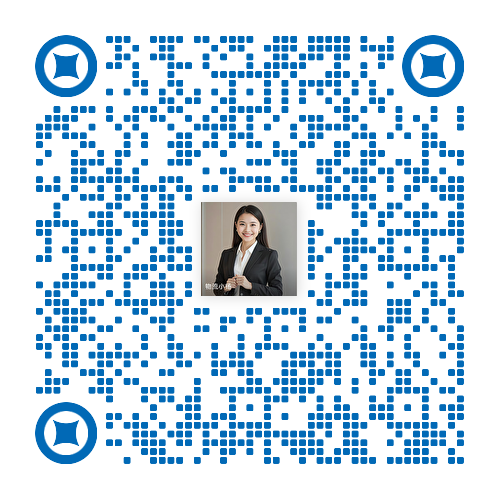
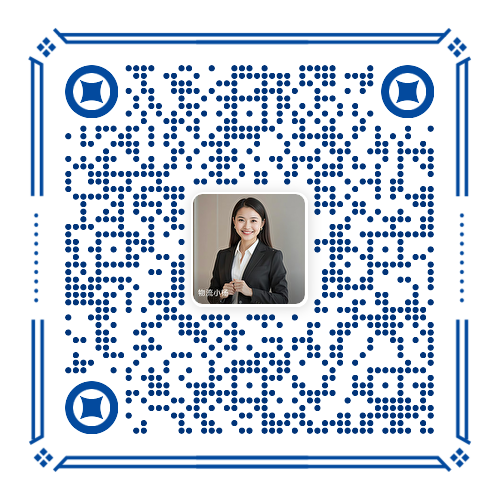
modify qr code

diff --git a/uniapp-cal-price/src/components/WechatFab.vue b/uniapp-cal-price/src/components/WechatFab.vue
@@ -32,7 +32,7 @@ export default {
     },
 
     openCorpWx() {
-      const link = 'https://work.weixin.qq.com/ca/cawcdeae7f79de5a3d'
+      const link = 'https://work.weixin.qq.com/ca/cawcde96436f7eeacb'
 
       /* #ifdef APP-PLUS */
       plus.runtime.openURL(link)
